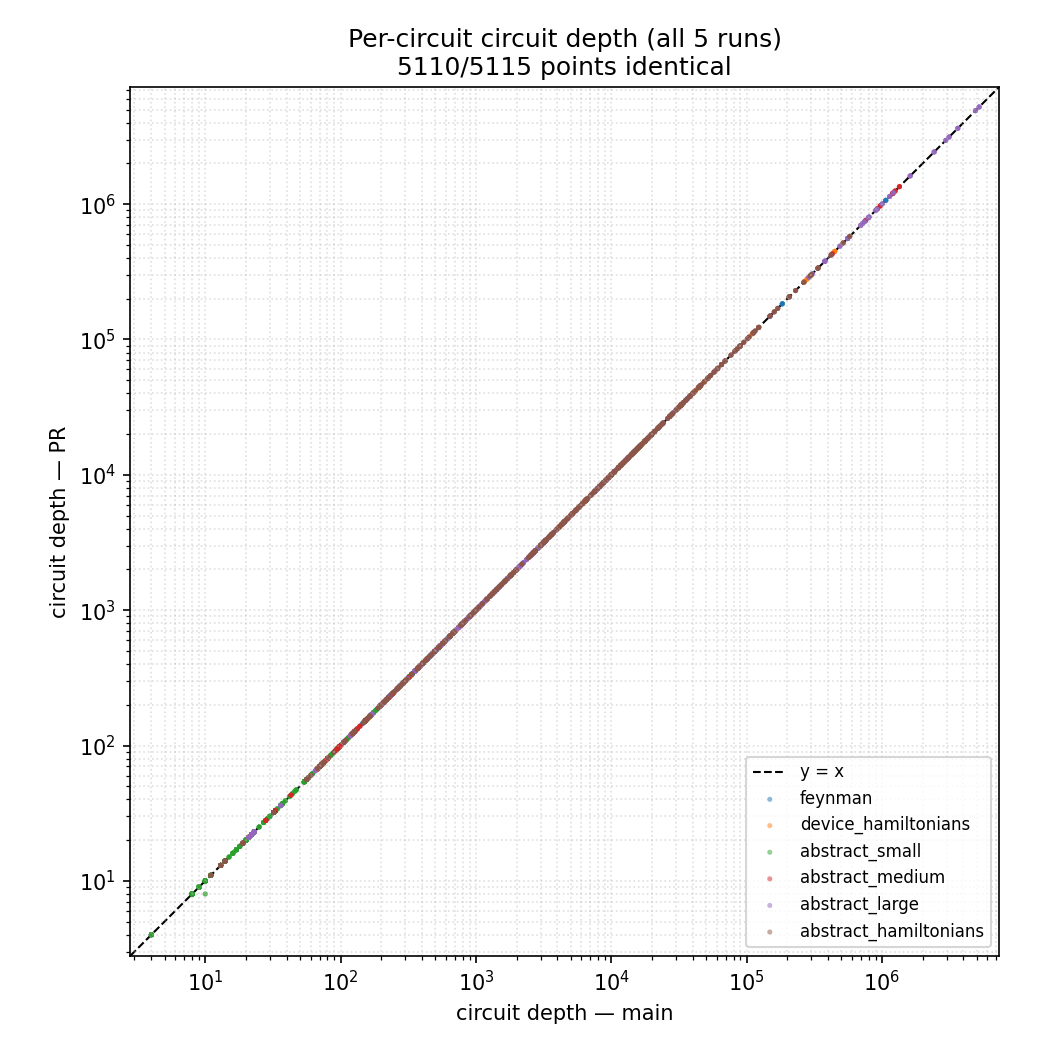
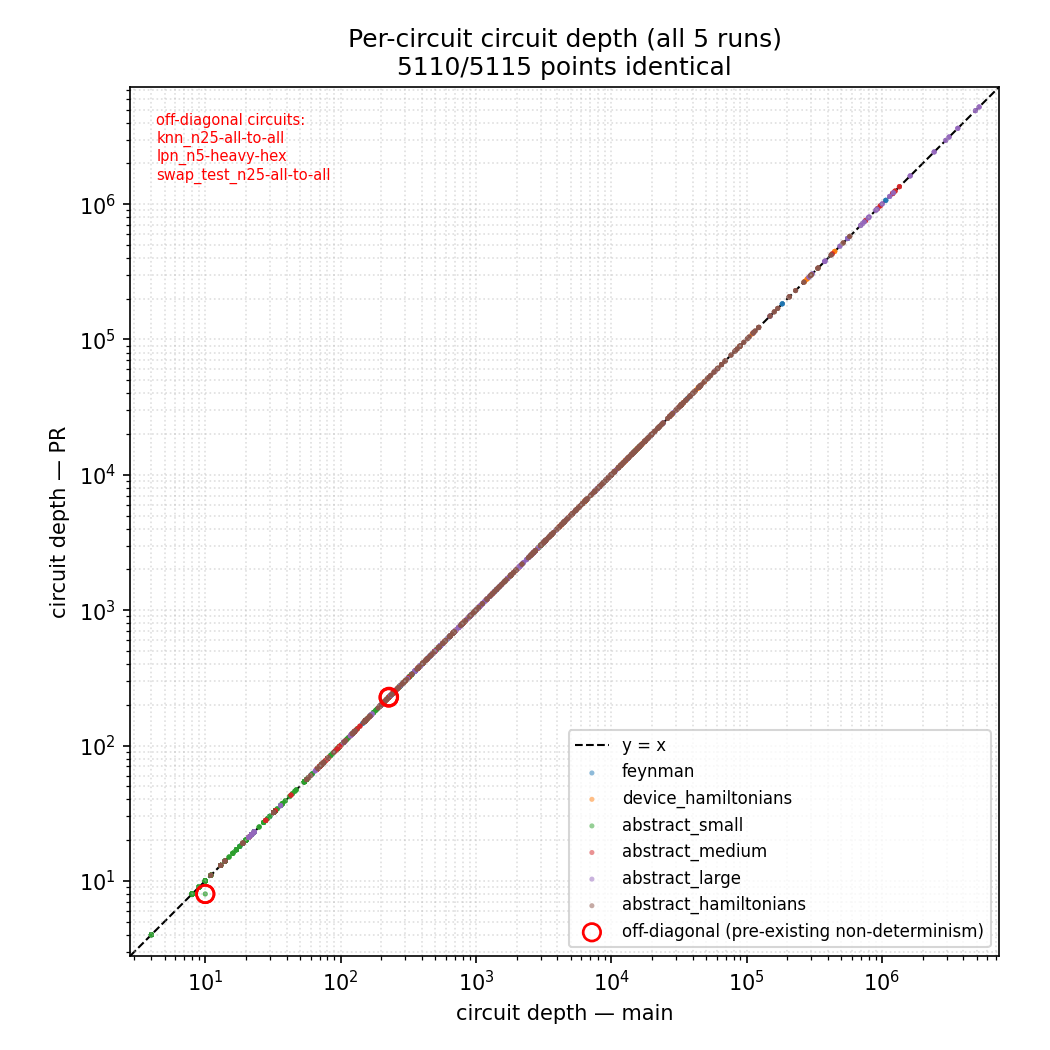
pr16157_rebased: correct non-determinism characterization (2Q identical; 1Q=2, depth=3 circuits)
Multi-run main-alone data shows: 2Q bit-identical on all 1023 circuits; 1Q varies
on 2 circuits (qec_en_n5, lpn_n5); depth +-1 on 3 (lpn_n5, knn_n25, swap_test_n25).
Fix Summary (2Q is the bit-identical claim; depth not), Issues (accurate per-metric
list + main-alone evidence), and highlight depth scatter off-diagonal points.

diff --git a/investigation/outputs/pr16157_rebased/scripts/plot_pr_charts.py b/investigation/outputs/pr16157_rebased/scripts/plot_pr_charts.py
@@ -154,7 +154,7 @@ def scatter_metric(keyname, label, fname, highlight=False):
     if highlight and offpts:
         ax.scatter([a for a, _, _ in offpts], [b for _, b, _ in offpts], s=70,
                    facecolors="none", edgecolors="red", linewidths=1.3, zorder=6,
-                   label="off-diagonal (1Q non-determinism)")
+                   label="off-diagonal (pre-existing non-determinism)")
         names = sorted(set(cid for _, _, cid in offpts))
         ax.text(0.03, 0.97, "off-diagonal circuits:\n" + "\n".join(names),
                 transform=ax.transAxes, va="top", ha="left", fontsize=7, color="red")
@@ -167,7 +167,7 @@ def scatter_metric(keyname, label, fname, highlight=False):
 
 off2q = scatter_metric("2q", "2Q gate count", "scatter_2q.png")
 off1q = scatter_metric("1q", "1Q gate count", "scatter_1q.png", highlight=True)
-offdp = scatter_metric("dp", "circuit depth", "scatter_depth.png")
+offdp = scatter_metric("dp", "circuit depth", "scatter_depth.png", highlight=True)
 
 # === stats for the draft ==================================================
 savers_red, unch_red = [], []

diff --git a/investigation/outputs/pr16157_rebased/PR_DESCRIPTION.md b/investigation/outputs/pr16157_rebased/PR_DESCRIPTION.md
@@ -56,14 +56,15 @@ abstract Hamiltonians: 249/400).
 
 ![Per-circuit change in Level-2 loop iterations (PR − main), colored by group](https://raw.githubusercontent.com/hfwen0502/qiskit/pass-manager-investigation/investigation/outputs/pr16157_rebased/images/iteration_delta.png)
 
-**Output is unchanged.** Across all 1,023 circuits and all 5 runs, **2Q-gate counts and
-circuit depths are bit-identical** between `main` and the PR — every point on the diagonal.
-The **1Q-gate count** is identical too, except on four circuits affected by a pre-existing,
-PR-independent tie-break non-determinism (discussed in **Issues** below).
+**Output is unchanged.** The **2Q-gate count is bit-identical** between `main` and the PR on
+**every circuit across all 5 runs** (0 of 5,115 points off the diagonal). **1Q-gate counts
+and depths match too**, except on a few circuits that exhibit a **pre-existing,
+PR-independent** tie-break non-determinism — those vary on `main` *by itself*, and are
+detailed in **Issues** below.
 
 ![2Q gate count, main vs PR — every point on the diagonal](https://raw.githubusercontent.com/hfwen0502/qiskit/pass-manager-investigation/investigation/outputs/pr16157_rebased/images/scatter_2q.png)
 
-![Circuit depth, main vs PR — every point on the diagonal](https://raw.githubusercontent.com/hfwen0502/qiskit/pass-manager-investigation/investigation/outputs/pr16157_rebased/images/scatter_depth.png)
+![Circuit depth, main vs PR — identical except 3 ringed non-determinism circuits](https://raw.githubusercontent.com/hfwen0502/qiskit/pass-manager-investigation/investigation/outputs/pr16157_rebased/images/scatter_depth.png)
 
 **Compilation is faster.** Total suite compile time drops **−10.6% ± 0.3%** (5 runs), and
 the PR is **faster in every group in every run**. Per group the reduction ranges **−6.7%
@@ -157,22 +158,25 @@ unchanged-iteration circuits:    mean  −2.6%                    ← ≈0, i.e.
 i.e. **the PR helps ~43% of circuits by ~13% each, which cuts total suite compile time by
 10.6%**, and the rest are not slowed.
 
-## Issues — pre-existing 1Q non-determinism (not introduced here)
+## Issues — pre-existing non-determinism (not introduced here)
 
-A handful of circuits (4 of 1,023: `qec_en_n5-square`, `lpn_n5-heavy-hex`,
-`knn_n25-all-to-all`, `swap_test_n25-all-to-all`) show **1Q-gate-count variation across
-runs** in the 1Q scatter (`scatter_1q.png`) — on **both** `main` and the PR, independent
-of this change. This is a pre-existing, seed-independent tie-break in 1Q-rotation
-decomposition (it varies even with a fixed `PassManager` and `seed_transpiler`; verified
-on `main` alone — see `recheck/` and `NONDETERMINISM_ISSUE.md`). The 2Q-gate count and
-depth are unaffected. It is called out here only so the off-diagonal points in the 1Q
-plot are not mistaken for a PR-induced change.
+A few circuits show a small tie-break non-determinism that is **pre-existing and
+PR-independent**: it varies on `main` *by itself* across repeated runs (5 runs each in the
+overnight sweep; `qec_en_n5-square` additionally has 8 dedicated main-only runs in
+`recheck/`). Measured on `main` alone:
 
-![1Q gate count, main vs PR — only the 4 non-determinism circuits leave the diagonal](https://raw.githubusercontent.com/hfwen0502/qiskit/pass-manager-investigation/investigation/outputs/pr16157_rebased/images/scatter_1q.png)
+- **1Q-gate count** varies on `qec_en_n5-square` (47 ↔ 48) and `lpn_n5-heavy-hex` (18 ↔ 19);
+- **circuit depth** varies by ±1 on `lpn_n5-heavy-hex`, `knn_n25-all-to-all`,
+  `swap_test_n25-all-to-all`.
 
-The red-ringed off-diagonal points above come entirely from those four circuits; every
-other point is on the diagonal. This non-determinism is independent of this PR, so we will
-**open a separate PR** to address it (root-cause analysis in `NONDETERMINISM_ISSUE.md`).
+The **2Q-gate count is stable on every one of these — and on all 1,023 circuits.** The
+cause is a seed-independent tie-break in 1Q-rotation decomposition: it persists even with a
+fixed `PassManager` and an explicit `seed_transpiler` (root-cause analysis in
+`NONDETERMINISM_ISSUE.md`). The red-ringed off-diagonal points in the 1Q scatter (and the
+depth scatter above) come entirely from these circuits; every other point is on the
+diagonal. Because it is not introduced by this PR, we will **open a separate PR** to fix it.
+
+![1Q gate count, main vs PR — only the non-determinism circuits leave the diagonal](https://raw.githubusercontent.com/hfwen0502/qiskit/pass-manager-investigation/investigation/outputs/pr16157_rebased/images/scatter_1q.png)
 
 ## AI / LLM disclosure
 
